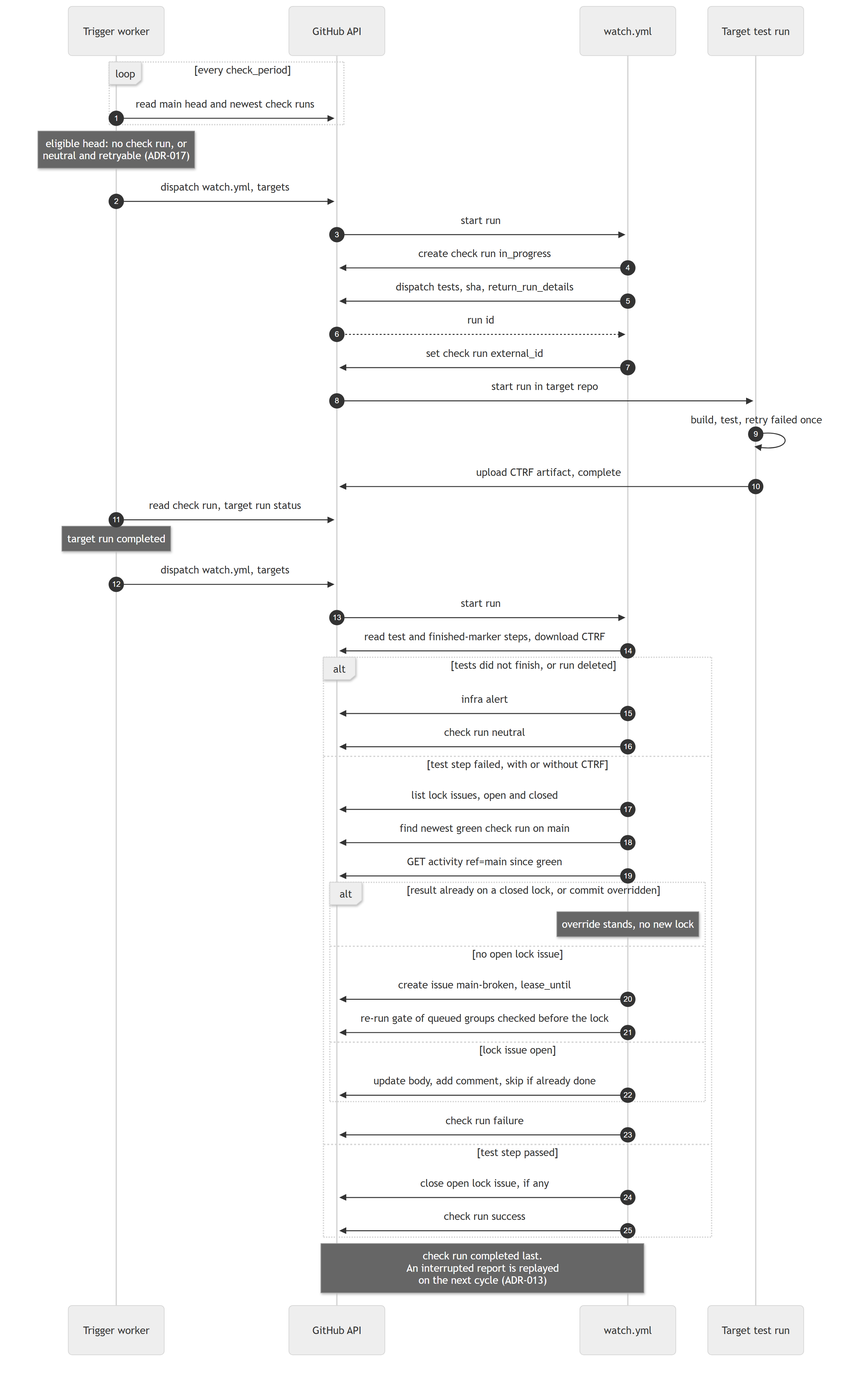
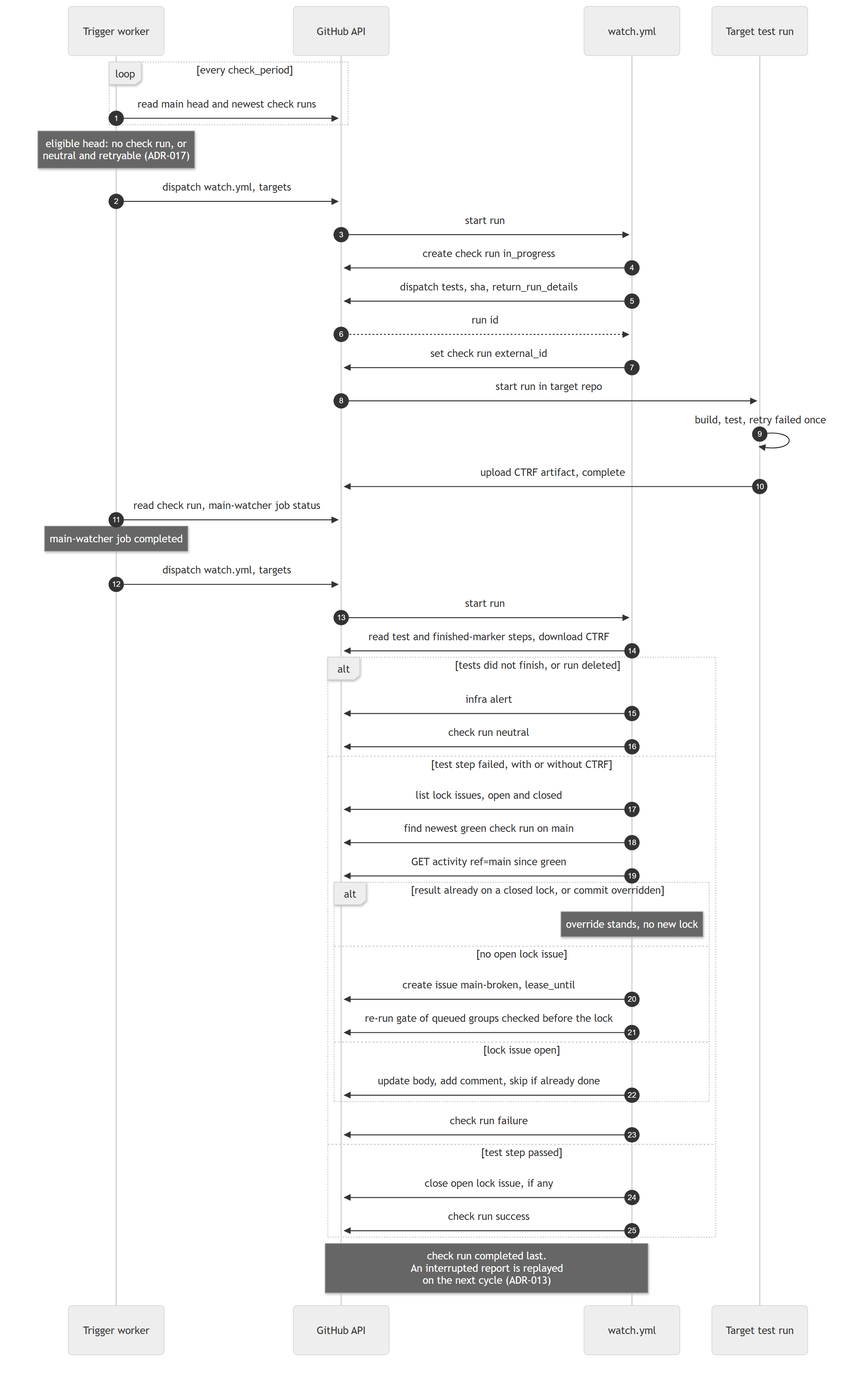
Tie reporting and staleness to the main-watcher job in ADR-013
Seventh adversarial review: the stale-run rule waited for the whole target
run, so a separate report job that hung or never got a runner could mark
a proven test failure neutral.

- Reporting is pending once the target run's main-watcher job has
  completed; other jobs in the run are ignored. The worker reads that job
  through the Actions jobs API.
- Past the stale threshold, an unfinished job whose
  main-watcher-tests-finished step succeeded is reported from the test
  step, not marked stale; a jobs API error leaves it pending.
- Update notes on ADR-003 and ADR-010, ARCH-001 and CLAUDE.md; extend
  TS-S16 (f), TS-U5 and TS-U11; re-render seq-failure-to-lock.

diff --git a/docs/architecture/test-strategy.md b/docs/architecture/test-strategy.md
@@ -72,7 +72,7 @@ confidence: assumed
 | TS-S12: cancelling a target test run marks its check run neutral, raises an alert, and retests the head after `poll_interval` | ADR-009, ADR-017 | Cancel the run by hand | Release |
 | TS-S14: a Reporter stopped (a) after creating the lock issue and (b) after updating it, but before completing the check run, is replayed on the next cycle: the check run completes, no duplicate issue or comment appears, and the check run is never marked stale. (c) With issue writes failing for 20 min, a "reporting pending" alert is raised, and the lock appears once writes succeed. (d) Stopped after creating the lock issue, which a human then closes before the replay: no new lock is created, the check run completes as `failure`, and the override comment is posted | FR-4, ADR-004, ADR-013 | Fault-injection switch in the sandbox Reporter that exits after the chosen write; revoked Issues permission for (c); for (d), close the issue by hand before restoring the Reporter | Release |
 | TS-S15: an unlabelled PR merged during a lock, followed by a human closing the lock issue before the watcher recovers, is reported on recovery: on the closed issue, as a comment, and as a `watcher-infra` alert; the issue is then marked `reconciled=complete`. (b) The same, but with `fixes-main` added to the PR after it merged and before recovery: still reported | NFR-4, ADR-015 | Worker scaled to 0 and sweep disabled; gate forced open (invalid token or expired lease); merge, close the issue, restore; for (b), label the PR before restoring | Release |
-| TS-S16: a failing test run whose CTRF upload fails opens a lock saying "failing tests unknown", not a neutral result; a run whose restore step fails completes the check run as `neutral`, with an alert and no lock; (c) the Reporter finds the `main-watcher-test` step in the real jobs response of a reusable-workflow caller, and a workflow tag with that step renamed produces an "outcome contract broken" alert; (d) a failing test run whose upload step then hangs past its timeout, and a failing test run cancelled by hand after the test step finished, both still open a lock, while a run cancelled during the test step itself is `neutral`; (e) a test that hangs past the target's timeout gives `neutral` with an infrastructure alert, not a lock, both without and with a `timeout-minutes` added to the test step, and `main-watcher-tests-finished` is `skipped` in both cases | FR-3, FR-4, ADR-007, ADR-013 | Sandbox switches that make the upload step fail, and that point restore at an unreachable feed; a sandbox workflow tag with the step renamed for (c); an upload step that sleeps past its timeout, and manual cancels at chosen points, for (d); a test that sleeps past a 2-min target timeout, with and without a step `timeout-minutes`, for (e) | Release |
+| TS-S16: a failing test run whose CTRF upload fails opens a lock saying "failing tests unknown", not a neutral result; a run whose restore step fails completes the check run as `neutral`, with an alert and no lock; (c) the Reporter finds the `main-watcher-test` step in the real jobs response of a reusable-workflow caller, and a workflow tag with that step renamed produces an "outcome contract broken" alert; (d) a failing test run whose upload step then hangs past its timeout, and a failing test run cancelled by hand after the test step finished, both still open a lock, while a run cancelled during the test step itself is `neutral`; (e) a test that hangs past the target's timeout gives `neutral` with an infrastructure alert, not a lock, both without and with a `timeout-minutes` added to the test step, and `main-watcher-tests-finished` is `skipped` in both cases; (f) a failing test run whose separate `report` job stays waiting for a runner beyond the stale threshold still opens a lock as soon as the `main-watcher` job completes, and is never marked stale | FR-3, FR-4, ADR-007, ADR-013 | Sandbox switches that make the upload step fail, and that point restore at an unreachable feed; a sandbox workflow tag with the step renamed for (c); an upload step that sleeps past its timeout, and manual cancels at chosen points, for (d); a test that sleeps past a 2-min target timeout, with and without a step `timeout-minutes`, for (e); a sandbox switch that sends the `report` job to a runner label no runner has, for (f) | Release |
 | TS-S17: an unlabelled PR whose gate has passed while a slow second required check is still running is removed from the queue when a lock opens: the watcher re-runs its gate, which fails. The same holds for a gate still running when the lock opens. A group that merged before its re-run is reported. This confirms A-7. (b) A group passes the gate during a lease lapse; the Planner renews the lease and is stopped before sweeping, with an older `queue_swept` marker present: the next watcher run still re-runs that group's gate | FR-4, A-7, ADR-014, ADR-016 | Sandbox ruleset with a second required check that sleeps 10 min; force a failing test run while the PR waits; for (b), a 10-min `lock_lease` and a fault-injection exit after the renewal | Release, and before rollout |
 | TS-S18: with `main` unchanged, a run whose restore step fails is retested after `poll_interval` and, once the feed is back, gives a real result; with the Planner stopped right after completing the check run as `neutral`, the head is still retested; after three neutral results a "head untestable" alert is raised and no fourth test starts until a push or a forced dispatch | FR-2, ADR-017 | Sandbox switch that points restore at an unreachable feed; fault-injection exit after the neutral write; sandbox `poll_interval` of 2 min | Release |
 | TS-U1: the CTRF reader merges several projects' reports, lists failed tests, and treats missing or schema-invalid files as "unknown" | ADR-007 | xUnit v3-produced fixtures | Every commit |
@@ -81,11 +81,11 @@ confidence: assumed
 | TS-U4: reconciliation reports each unlabelled merge during a lock exactly once across runs | ADR-008 | Activity fixtures + marker | Every commit |
 | TS-U6: `timings.json` separates wall-clock time from summed per-test time, and carries the retry flag | ADR-011 | Fixture CTRF with parallel tests and a retry | Every commit |
 | TS-U7: worker alerts de-duplicate: a repeated condition comments on the open issue instead of creating a new one | ADR-012 | Faked gateway | Every commit |
-| TS-U5: the worker flags work for (a) an eligible head: new, or with a retryable neutral result (ADR-017), (b) a completed target run, (c) a stale run, (d) a lock lease last renewed more than 1 h ago, (e) a closed lock not yet reconciled, and nothing otherwise; it dispatches at most once per cycle; a completed target run is never treated as stale, with or without an artifact | ADR-010, ADR-013, ADR-014, ADR-015 | Faked gateway | Every commit |
+| TS-U5: the worker flags work for (a) an eligible head: new, or with a retryable neutral result (ADR-017), (b) a completed `main-watcher` job, whatever other jobs in the run are doing, (c) a stale run, (d) a lock lease last renewed more than 1 h ago, (e) a closed lock not yet reconciled, and nothing otherwise; it dispatches at most once per cycle; a completed `main-watcher` job is never treated as stale, with or without an artifact, and neither is an unfinished job whose `main-watcher-tests-finished` step succeeded | ADR-010, ADR-013, ADR-014, ADR-015 | Faked gateway | Every commit |
 | TS-U8: Reporter replay is idempotent: stopping after any write in the create, update or close sequence and replaying for the same check run gives one issue, one comment and a completed check run; two open locks lead to the newer being closed; a check run ID already on a closed issue creates nothing; a red result for the commit of a human-closed lock creates nothing, while one for a different commit opens a new lock | ADR-004, ADR-013 | Faked gateway that fails after each write | Every commit |
 | TS-U9: the gate enforces a lock only when `lease_until` is in the future and at most 24 h ahead; a missing, unreadable, expired or too-distant lease fails open with the "LOCK LEASE EXPIRED" warning | ADR-014 | Marker fixtures, fixed clock | Every commit |
 | TS-U10: reconciliation covers merges up to a lock's `closed_at` for App-closed and human-closed issues, ignores merges after closure, writes `reconciled=complete` only after every report succeeds, and skips issues already complete; judges `fixes-main` from label events up to `merged_at`, so a label added after the merge still reports and one removed after it does not; stops without advancing `last_reconciled` when label events cannot be read | ADR-015 | Activity and issue fixtures | Every commit |
-| TS-U11: the Reporter's outcome table, where the test step counts only after a successful `main-watcher-tests-finished` marker: marker succeeded and `main-watcher-test` failed → red, even if the run was then cancelled or timed out during upload; marker succeeded and the test step succeeded → green, even if the run was then cancelled; marker skipped, cancelled or missing → infrastructure error, including a test step reported as `failure` after a timeout; marker succeeded with the test step missing or in any other state → contract error; `main-watcher-test` failed with valid CTRF → red, tests listed; failed with missing, invalid or undownloadable CTRF → red, "failing tests unknown"; succeeded → green; run deleted (404) → neutral, "outcome unknown"; any other jobs API error → still pending; either step found more than once → contract error, neutral | ADR-007, ADR-013 | Jobs API and artifact fixtures, including a reusable-workflow caller's jobs response | Every commit |
+| TS-U11: the Reporter's outcome table, where the test step counts only after a successful `main-watcher-tests-finished` marker: marker succeeded and `main-watcher-test` failed → red, even if the run was then cancelled or timed out during upload; marker succeeded and the test step succeeded → green, even if the run was then cancelled; marker skipped, cancelled or missing → infrastructure error, including a test step reported as `failure` after a timeout; marker succeeded with the test step missing or in any other state → contract error; `main-watcher-test` failed with valid CTRF → red, tests listed; failed with missing, invalid or undownloadable CTRF → red, "failing tests unknown"; succeeded → green; run deleted (404) → neutral, "outcome unknown"; any other jobs API error → still pending; either step found more than once → contract error, neutral; past the stale threshold with the `main-watcher` job unfinished: marker succeeded → table applied (red with "failing tests unknown" if CTRF is missing), marker not succeeded → stale, neutral, jobs API error → still pending | ADR-007, ADR-013 | Jobs API and artifact fixtures, including a reusable-workflow caller's jobs response | Every commit |
 | TS-U12: the queue sweep re-runs completed gate runs that started before the lock for groups still queued, re-runs gate runs still in progress once they complete, skips gate runs started after the lock and groups no longer queued, and writes `queue_swept` only when nothing is left; treats a sweep as owed whenever `queue_swept` is missing or earlier than `sweep_required`, including after a crash right after a lease renewal that left an older `queue_swept`; covers gate runs started up to 5 min after `sweep_required` | ADR-014, ADR-016 | Branch, workflow-run and issue fixtures | Every commit |
 | TS-U13: the shared eligibility rule: no check run → eligible once `poll_interval` has passed since the last start; newest `neutral` → eligible once `poll_interval` has passed since it completed, while the head has fewer than 3 neutral check runs; newest `in_progress`, `success` or `failure` → not eligible; the Planner re-checks before starting; `force` ignores only the cap | ADR-017 | Timestamped check-run fixtures shared by the worker and Planner test suites | Every commit |
 | TS-U14: the test wrapper sets `finished=true` only when the test command exits on its own, passes the command's exit code through after the one retry, and at its deadline stops the whole process tree and exits non-zero without setting `finished` | ADR-007, ADR-013 | Fake test commands that pass, fail, spawn child processes, and sleep past a short deadline | Every commit |

diff --git a/docs/architecture/architecture.md b/docs/architecture/architecture.md
@@ -227,9 +227,9 @@ flowchart LR
 | Container | Responsibility | Technology | Owner | Serves |
 |---|---|---|---|---|
 | targets.yml | Lists targets: repo, test command, CTRF results glob, timeout, `poll_interval`, `notify`, `enabled` | YAML in watcher repo | Platform team | FR-1 |
-| Trigger worker | Every `check_period`, detects work per target (eligible head, ADR-017; finished run, stale run, lock lease due for renewal, closed lock not yet reconciled, unfinished queue sweep) and starts `watch.yml`. Exposes `/healthz`. Raises `watcher-infra` issues if the watcher hasn't completed a run in 2 h, if reporting has been pending, or a queue sweep unfinished, for more than 15 min, on repeated errors, or on token failures (ADR-012, ADR-013, ADR-014, ADR-016) | .NET 8+ `BackgroundService`, container, 1 replica | Platform team | FR-2, C-7 |
-| watch.yml — Planner | For the targets passed in (or all, on the hourly sweep): for an eligible head (ADR-017), creates an in-progress check run, starts the target's test workflow with `return_run_details`, stores the run ID in the check run's `external_id`. Handles stale runs; renews lock leases (ADR-014); finishes queue sweeps (ADR-016); reconciles merges made during a lock, through the lock's closure, judging labels at merge time (ADR-008, ADR-015); raises "worker appears down" if work waited more than 15 min | GitHub Actions job | Platform team | FR-2, NFR-3, NFR-4 |
-| watch.yml — Reporter | For completed target runs: reads the outcome of the `main-watcher-test` step, trusted only when the `main-watcher-tests-finished` marker step succeeded, downloads CTRF, finds the last green commit, collects pushes, opens, updates or closes the lock issue (never re-locking a commit a human overrode), and only then completes the check run, so an interrupted report is replayed (ADR-013). After opening a lock, it re-runs the gate for merge groups queued before it (ADR-016). Adds a timing section to the check run: suite time, change from last green, 5 slowest tests, retry flag (ADR-011) | GitHub Actions job | Platform team | FR-3, FR-4 |
+| Trigger worker | Every `check_period`, detects work per target (eligible head, ADR-017; finished `main-watcher` job, stale run, lock lease due for renewal, closed lock not yet reconciled, unfinished queue sweep) and starts `watch.yml`. Exposes `/healthz`. Raises `watcher-infra` issues if the watcher hasn't completed a run in 2 h, if reporting has been pending, or a queue sweep unfinished, for more than 15 min, on repeated errors, or on token failures (ADR-012, ADR-013, ADR-014, ADR-016) | .NET 8+ `BackgroundService`, container, 1 replica | Platform team | FR-2, C-7 |
+| watch.yml — Planner | For the targets passed in (or all, on the hourly sweep): for an eligible head (ADR-017), creates an in-progress check run, starts the target's test workflow with `return_run_details`, stores the run ID in the check run's `external_id`. Handles stale runs, checking the finished-marker step first (ADR-013); renews lock leases (ADR-014); finishes queue sweeps (ADR-016); reconciles merges made during a lock, through the lock's closure, judging labels at merge time (ADR-008, ADR-015); raises "worker appears down" if work waited more than 15 min | GitHub Actions job | Platform team | FR-2, NFR-3, NFR-4 |
+| watch.yml — Reporter | When a target run's `main-watcher` job has completed (other jobs in the run are ignored): reads the outcome of the `main-watcher-test` step, trusted only when the `main-watcher-tests-finished` marker step succeeded, downloads CTRF, finds the last green commit, collects pushes, opens, updates or closes the lock issue (never re-locking a commit a human overrode), and only then completes the check run, so an interrupted report is replayed (ADR-013). After opening a lock, it re-runs the gate for merge groups queued before it (ADR-016). Adds a timing section to the check run: suite time, change from last green, 5 slowest tests, retry flag (ADR-011) | GitHub Actions job | Platform team | FR-3, FR-4 |
 | run-integration-tests.yml | `test` job: checks out `sha` and restores (setup steps); builds and runs tests with one retry of failed tests in a single step, `main-watcher-test`, through a wrapper that enforces the target's timeout; a marker step, `main-watcher-tests-finished`, succeeds only if the tests ran to completion (ADR-013); then writes `timings.json` and uploads the `main-watcher-ctrf` artifact, even when that step failed. `report` job: no secrets, read-only token, publishes the CTRF job summary with the slowest tests and duration trends (ADR-011) | Reusable GitHub workflow, version-tagged; `ctrf-io/github-test-reporter` pinned by SHA | Platform team | FR-2, FR-6, ADR-007 |
 | main-watcher-tests.yml | Caller: `workflow_dispatch` inputs → reusable workflow, `secrets: inherit`. The place where the target sets up OIDC or feeds | ~15-line workflow in target | Target owners (template from platform) | FR-5 |
 | Gate workflow | On `merge_group`: fails while an App-authored lock with an unexpired lease is open, unless every PR in the group has `fixes-main`. Fails open, with a warning, on API errors or an expired lease (ADR-008, ADR-014). On `pull_request`: always passes | ~40-line workflow in target | Target owners (template from platform) | FR-4, C-2 |
@@ -265,8 +265,8 @@ sequenceDiagram
     GH->>T: start run in target repo
     T->>T: build, test, retry failed once
     T->>GH: upload CTRF artifact, complete
-    W->>GH: read check run, target run status
-    Note over W: target run completed
+    W->>GH: read check run, main-watcher job status
+    Note over W: main-watcher job completed
     W->>GH: dispatch watch.yml, targets
     GH->>WA: start run
     WA->>GH: read test and finished-marker steps, download CTRF
@@ -302,15 +302,18 @@ is raised (ADR-017).
 **Failure behaviour.**
 
 - **Target run cancelled, deleted, or never started.**
-  - Detection: the check run stays `in_progress` while its target run does not complete, or
-    its `external_id` points to a run that no longer exists. A completed run is never
-    stale, even without an artifact (ADR-013).
-  - Once older than the target's timeout + 10 min, it is marked `neutral`.
+  - Detection: the check run stays `in_progress` while the target run's `main-watcher` job
+    does not complete, or its `external_id` points to a run that no longer exists. A
+    completed job is never stale, even without an artifact or while other jobs in the run
+    are unfinished (ADR-013).
+  - Once older than the job's `timeout-minutes` + 10 min, it is marked `neutral`, unless
+    its `main-watcher-tests-finished` step already succeeded; then the result is reported
+    from the test step instead (ADR-013).
   - A `watcher-infra` alert is raised. The head stays eligible and is retested after
     `poll_interval`; there is no separate retry step for a crash to lose (ADR-017).
 - **Reporter interrupted** (crash, cancelled job, or API retries exhausted mid-report).
   - The check run is completed only after the lock issue is written, so it stays
-    `in_progress` with a completed target run: "reporting pending" (ADR-013).
+    `in_progress` with a completed `main-watcher` job: "reporting pending" (ADR-013).
   - The worker flags that as work on the next cycle and the Reporter replays, skipping
     writes already made for this check run.
   - A pending report is never marked stale. After 15 min the worker raises a
@@ -458,7 +461,7 @@ Main Watcher has no datastore.
 | Test outcome per commit | Check runs by `main-watcher` on the target commit; the newest is the result, and neutral ones are counted for retries (ADR-017) | Lock issue text | Internal | GitHub check retention |
 | Link to running test | Check run `external_id` = target run ID | — | Internal | As above |
 | Lock state | Open App-authored `main-broken` issue whose `lease_until` has not passed (ADR-014) | — | Internal | Issue history |
-| Reporting pending | An `in_progress` check run whose target run has completed (ADR-013) | — | Internal | GitHub check retention |
+| Reporting pending | An `in_progress` check run whose target run's `main-watcher` job has completed (ADR-013) | — | Internal | GitHub check retention |
 | Test outcome of a target run | Conclusions of the `main-watcher-test` step and the `main-watcher-tests-finished` marker step, read through the Actions jobs API (ADR-013) | Check run conclusion | Internal | Target repo's run retention |
 | Last green commit, last reconciled activity, lease, last reported check, reconciliation complete, queue sweep | Check runs; hidden markers in the lock issue, open or closed | — | Internal | As above |
 | Test logs, CTRF reports | Actions run and artifact **in the target repo** | Excerpts in the issue | Internal; may contain secrets if tests print them | Target repo's artifact retention |
@@ -631,7 +634,7 @@ team subscribes to that label.
   finish, plus 24 sweeps a day.
 - Test minutes are billed to each target repo, within the same organisation.
 - The worker makes about 3–4 read calls per target per minute, including one for lock
-  issues (R-13, ADR-014).
+  issues, plus one jobs call while a test is running (R-13, ADR-013, ADR-014).
 
 ## 13. Technology and versions
 
@@ -730,7 +733,7 @@ team subscribes to that label.
 | Override | A human closing the lock issue while `main` is still red |
 | Lease | The time until which an open lock is enforced (`lease_until`). The watcher renews it; the gate ignores a lock whose lease has passed |
 | Lapsed | A lock issue that is still open but whose lease has passed |
-| Reporting pending | A check run still `in_progress` after its target run completed; the Reporter replays it |
+| Reporting pending | A check run still `in_progress` after its target run's `main-watcher` job completed; the Reporter replays it |
 | Queue sweep | Re-running the gate for merge groups queued before a lock opened or was renewed (ADR-016) |
 | Eligible head | A `main` head with no Main Watcher check run, or whose newest one is `neutral` and may be retried (ADR-017) |
 | Gate | The required merge-queue check in the target that enforces the lock |
@@ -751,3 +754,4 @@ team subscribes to that label.
 | 2026-09-15 | Fourth adversarial review: neutral results stay eligible for a retest after `poll_interval`, up to 3 per head; the queue-sweep obligation and the lease lapse are written in the same issue update as the lock or lease renewal. CQ-14, R-23, TS-S18 and TS-U13 added; TS-S12, TS-S17, TS-U5 and TS-U12 extended | Platform team with Claude | ADR-017 (amends ADR-003, ADR-010); ADR-014 and ADR-016 (revised while proposed) |
 | 2026-09-15 | Fifth adversarial review: the test step's own conclusion takes precedence over a later cancellation or timeout, so a hung upload cannot hide a failure; upload steps get their own timeout. TS-S16 and TS-U11 extended | Platform team with Claude | ADR-013 (revised while proposed) |
 | 2026-09-15 | Sixth adversarial review: GitHub reports a step timeout as `failure`, so the test step now runs through a deadline wrapper, and its result counts only when the `main-watcher-tests-finished` marker step succeeded; anything that interrupts the tests is neutral. TS-U14 added; TS-S16 and TS-U11 extended | Platform team with Claude | ADR-013 (revised while proposed) |
+| 2026-09-15 | Seventh adversarial review: reporting and staleness follow the target run's `main-watcher` job, not the whole run, so a stuck `report` job cannot discard a proven failure; past the stale threshold, a succeeded finished-marker step is reported, not marked stale. TS-S16, TS-U5 and TS-U11 extended | Platform team with Claude | ADR-013 (revised while proposed) |

diff --git a/docs/architecture/decisions/ADR-013-reporter-completes-check-run-last.md b/docs/architecture/decisions/ADR-013-reporter-completes-check-run-last.md
@@ -121,9 +121,21 @@ run last:
 - **Infrastructure error:** raise the de-duplicated `watcher-infra` alert, then complete
   the check run as `neutral`.
 
-**3. Reporting pending.** A check run that is still `in_progress` while its target run
-(`external_id`) has completed means **reporting pending**. The worker already flags this as
-work (ADR-010), so a Reporter that stopped part-way runs again on the next cycle.
+**3. Reporting pending, tied to the test job.** A check run that is still `in_progress`
+while the `main-watcher` job of its target run (`external_id`) has completed means
+**reporting pending**.
+- **Only that job matters.** It holds the test step, the marker step and the CTRF upload,
+  and the upload steps have short timeouts, so it ends soon after the tests. Other jobs in
+  the run, such as the `report` job that publishes the timing summary (ADR-011), are
+  ignored. A seventh review on 2026-09-15 found that waiting for the whole run let a stuck
+  `report` job turn a proven failure neutral.
+- **Why the job, not just the marker step.** The Reporter waits for the job to complete so
+  the CTRF upload has finished or timed out before it reads the artifact. Point 5 covers a
+  job that never completes.
+- **Detection.** The worker reads the job through the Actions jobs API (`mw-observer`
+  already has Actions: read) and flags a pending report as work (ADR-010), so a Reporter
+  that stopped part-way runs again on the next cycle. If the job cannot be read because of
+  an API error, nothing changes, and it is read again on the next cycle.
 
 **4. Idempotent replay that respects overrides.**
 - The issue body's hidden marker records `reported_check=<id>` and `reported_sha=<commit>`.
@@ -144,11 +156,22 @@ work (ADR-010), so a Reporter that stopped part-way runs again on the next cycle
 - If the Reporter ever finds two open locks, it keeps the older one and closes the newer as
   a duplicate.
 
-**5. Narrower stale-run rule (amends ADR-010).** An in-progress check run is marked
-`neutral` as stale only when its target run has not completed within the target's timeout
-plus 10 minutes, or no longer exists. A completed target run always goes through the table
-in point 1. A missing CTRF artifact never makes a result neutral, and a pending report is
-never discarded as stale.
+**5. Narrower stale-run rule (amends ADR-010).** A completed `main-watcher` job always goes
+through the table in point 1, whatever other jobs in the run are doing. An in-progress check
+run whose `main-watcher` job has **not** completed is checked once the job's own
+`timeout-minutes` plus 10 minutes have passed since the check run was created:
+- **If `main-watcher-tests-finished` succeeded,** the tests did finish, so the run is not
+  stale. The table in point 1 is applied now, with whatever CTRF is available; at worst a
+  real failure is red with "failing tests unknown".
+- **Otherwise the run is stale:** `neutral`, with an alert. This includes a job that never
+  got a runner.
+- **If the job's steps cannot be read** because of an API error, the check run stays
+  pending and is checked again on the next cycle.
+- **If the run no longer exists** (404), the result is `neutral` with "outcome unknown", as
+  in point 1.
+
+A missing CTRF artifact never makes a result neutral, and a pending report is never
+discarded as stale.
 
 **6. Stuck reporting is visible.** When reporting has been pending for more than 15 minutes
 `[unconfirmed]`, the worker raises a `watcher-infra` alert, "reporting pending" (ADR-012).
@@ -213,6 +236,8 @@ hung test into a red lock.
   infrastructure errors and do not lock. They alert after two in a row.
 - **More Reporter logic and API calls:** a jobs API read per report, a list of issues in
   any state before writing, marker checks, and duplicate handling.
+- **The worker makes one Actions jobs API call** per running test on every cycle, to see
+  whether the `main-watcher` job has completed (R-13).
 - **It relies on the marker step's condition.** That GitHub skips the marker step when
   `finished` was never set, including after a cancellation or a lost runner, is
   `[assumption]`. TS-S16 checks it.

diff --git a/docs/architecture/decisions/ADR-010-self-hosted-trigger-worker.md b/docs/architecture/decisions/ADR-010-self-hosted-trigger-worker.md
@@ -20,9 +20,12 @@ amends: ADR-001
 
 > **Proposed amendments, 2026-09-15, awaiting confirmation:**
 > - [ADR-013](ADR-013-reporter-completes-check-run-last.md): an in-progress check run whose
->   target run has completed is "reporting pending", with or without an artifact. It is
->   never marked stale, and raises an alert after 15 minutes. Only a target run that has
->   not completed within its timeout + 10 min, or no longer exists, is stale.
+>   target run's `main-watcher` job has completed is "reporting pending", with or without an
+>   artifact and whatever other jobs in the run are doing; the worker reads that job through
+>   the Actions jobs API. A pending report is never marked stale, and raises an alert after
+>   15 minutes. A run is stale only when its `main-watcher` job has not completed within the
+>   job's timeout + 10 min and its `main-watcher-tests-finished` step has not succeeded, or
+>   when the run no longer exists.
 > - [ADR-014](ADR-014-lock-lease.md): `mw-observer` gains Issues: read on targets. The
 >   worker also flags work when a lock lease is due for renewal, or when a closed lock is
 >   not yet reconciled (ADR-015).

diff --git a/docs/architecture/decisions/ADR-003-state-in-github.md b/docs/architecture/decisions/ADR-003-state-in-github.md
@@ -15,7 +15,7 @@ confidence: confirmed
 
 > **Proposed amendment: [ADR-013](ADR-013-reporter-completes-check-run-last.md),
 > 2026-09-15, awaiting confirmation.** A check run would be completed only after the lock
-> issue is written. An in-progress check run whose target run has completed would mean
+> issue is written. An in-progress check run whose target run's `main-watcher` job has completed would mean
 > "reporting pending". The test outcome would be read from the target run's
 > `main-watcher-test` step. The lock issue's hidden markers would gain `reported_check` and
 > `reported_sha`, plus `lease_until` (ADR-014) and `reconciled` (ADR-015).

diff --git a/CLAUDE.md b/CLAUDE.md
@@ -37,7 +37,7 @@ is work, it starts `watch.yml` in the watcher repo through the `mw-doorbell` App
 - creates a check run on the target commit;
 - starts the target repo's `main-watcher-tests.yml` with `return_run_details`, and stores
   the run ID in the check run's `external_id`;
-- when that run finishes, reads its CTRF artifact and opens, updates or closes the
+- when that run's `main-watcher` job finishes, reads its CTRF artifact and opens, updates or closes the
   `main-broken` lock issue.
 
 **Target repos.**
